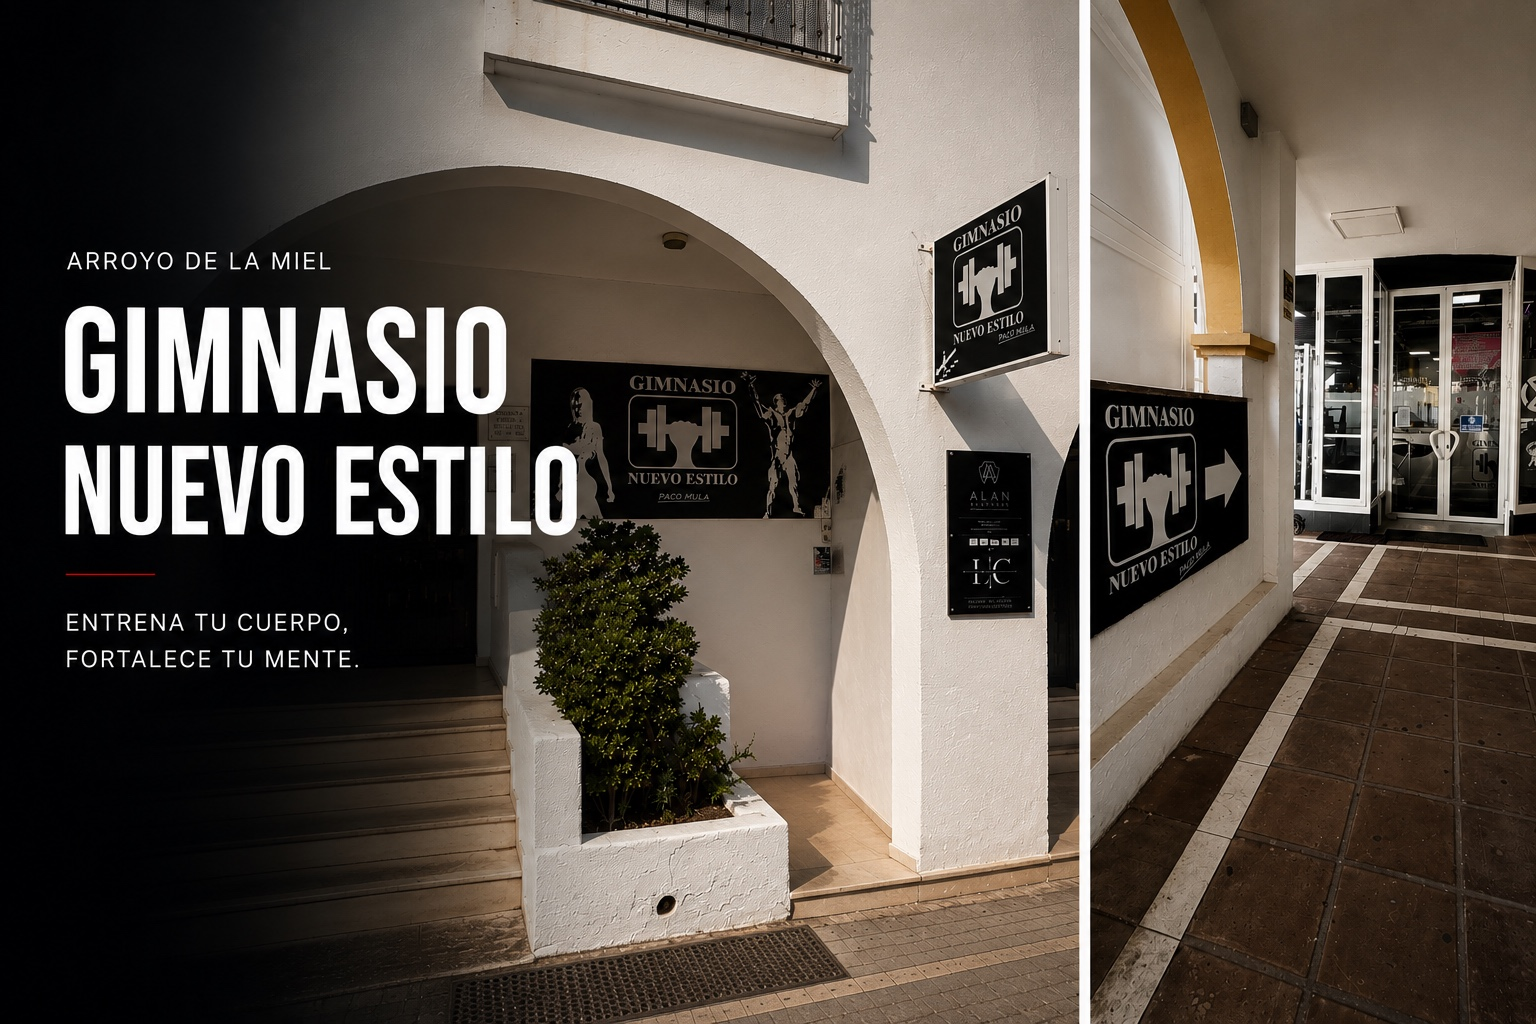
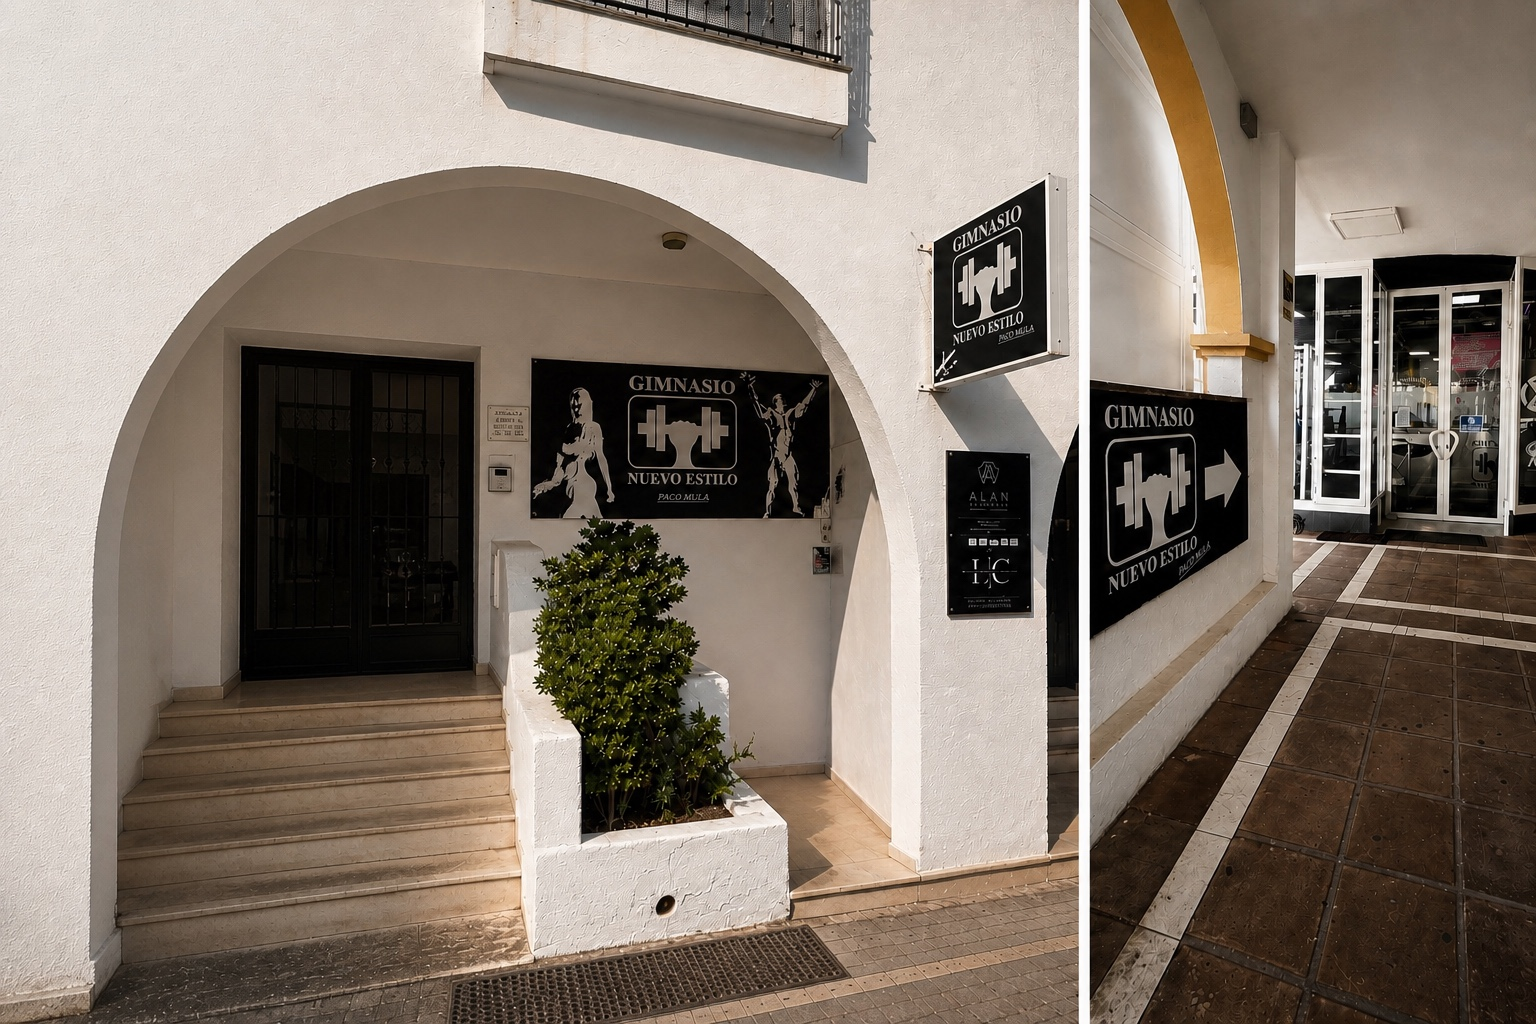
Limpiar hero de Arroyo

diff --git a/assets/css/site.css b/assets/css/site.css
@@ -665,6 +665,93 @@ h3 {
   color: var(--white);
 }
 
+.arroyo-page .hero {
+  align-items: center;
+}
+
+.arroyo-page .hero-media::after {
+  background:
+    linear-gradient(90deg, rgba(0, 0, 0, 0.86) 0%, rgba(0, 0, 0, 0.62) 22%, rgba(0, 0, 0, 0.14) 48%, rgba(0, 0, 0, 0.08) 100%),
+    linear-gradient(0deg, rgba(0, 0, 0, 0.28) 0%, rgba(0, 0, 0, 0) 44%, rgba(0, 0, 0, 0.12) 100%);
+}
+
+.arroyo-page .hero-content {
+  padding: calc(var(--header-height) + 42px) 0 0;
+  transform: none;
+}
+
+.arroyo-page .eyebrow {
+  margin-bottom: 22px;
+  color: rgba(255, 255, 255, 0.95);
+  font-size: clamp(0.82rem, 1.35vw, 1.2rem);
+  font-weight: 500;
+  letter-spacing: 0.2em;
+}
+
+.arroyo-page .eyebrow::before {
+  display: none;
+}
+
+.arroyo-page .hero h1 {
+  max-width: 650px;
+  margin-bottom: 26px;
+  font-size: clamp(5rem, 8vw, 7.6rem);
+  line-height: 0.92;
+  letter-spacing: 0;
+}
+
+.arroyo-page .hero h1::after {
+  display: block;
+  width: 86px;
+  height: 2px;
+  margin-top: 28px;
+  background: var(--pink);
+  content: "";
+}
+
+.arroyo-page .hero-lead {
+  max-width: 430px;
+  color: rgba(255, 255, 255, 0.94);
+  font-size: clamp(1rem, 1.4vw, 1.3rem);
+  letter-spacing: 0.12em;
+  line-height: 1.45;
+  text-transform: uppercase;
+}
+
+.arroyo-page .hero-actions {
+  margin-top: 32px;
+}
+
+@media (max-width: 760px) {
+  .arroyo-page .hero {
+    align-items: end;
+  }
+
+  .arroyo-page .hero-content {
+    padding: calc(var(--header-height) + 56px) 0 48px;
+    transform: none;
+  }
+
+  .arroyo-page .eyebrow {
+    font-size: 0.72rem;
+    letter-spacing: 0.16em;
+  }
+
+  .arroyo-page .hero h1 {
+    font-size: clamp(4rem, 17vw, 6.4rem);
+  }
+
+  .arroyo-page .hero h1::after {
+    width: 72px;
+    margin-top: 22px;
+  }
+
+  .arroyo-page .hero-lead {
+    max-width: 19rem;
+    font-size: 0.92rem;
+  }
+}
+
 .section {
   position: relative;
   padding: clamp(86px, 10vw, 150px) 0;

diff --git a/arroyo/index.html b/arroyo/index.html
@@ -95,7 +95,7 @@
   </script>
   <script src="/assets/js/site.js?v=20260730-cookie-banner" defer></script>
 </head>
-<body>
+<body class="arroyo-page">
   <a class="skip-link" href="#contenido">Saltar al contenido</a>
 
   <header class="site-header" data-header>
@@ -133,7 +133,7 @@
       <div class="hero-grid" aria-hidden="true"></div>
       <div class="hero-content">
         <p class="eyebrow">Arroyo de la Miel</p>
-        <h1 id="hero-title">Gimnasio Nuevo Estilo</h1>
+        <h1 id="hero-title">Gimnasio<br>Nuevo Estilo</h1>
         <p class="hero-lead">Entrena tu cuerpo, fortalece tu mente.</p>
         <div class="hero-actions">
           <a class="button button-primary" href="tel:+34951211028" data-contact-primary>

diff --git a/en/arroyo/index.html b/en/arroyo/index.html
@@ -96,7 +96,7 @@
   </script>
   <script src="/assets/js/site.js?v=20260730-cookie-banner" defer></script>
 </head>
-<body>
+<body class="arroyo-page">
   <a class="skip-link" href="#content">Skip to content</a>
 
   <header class="site-header" data-header>
@@ -134,7 +134,7 @@
       <div class="hero-grid" aria-hidden="true"></div>
       <div class="hero-content">
         <p class="eyebrow">Arroyo de la Miel</p>
-        <h1 id="hero-title">Nuevo Estilo Gym</h1>
+        <h1 id="hero-title">Nuevo Estilo<br>Gym</h1>
         <p class="hero-lead">Train your body, strengthen your mind.</p>
         <div class="hero-actions">
           <a class="button button-primary" href="tel:+34951211028" data-contact-primary>
